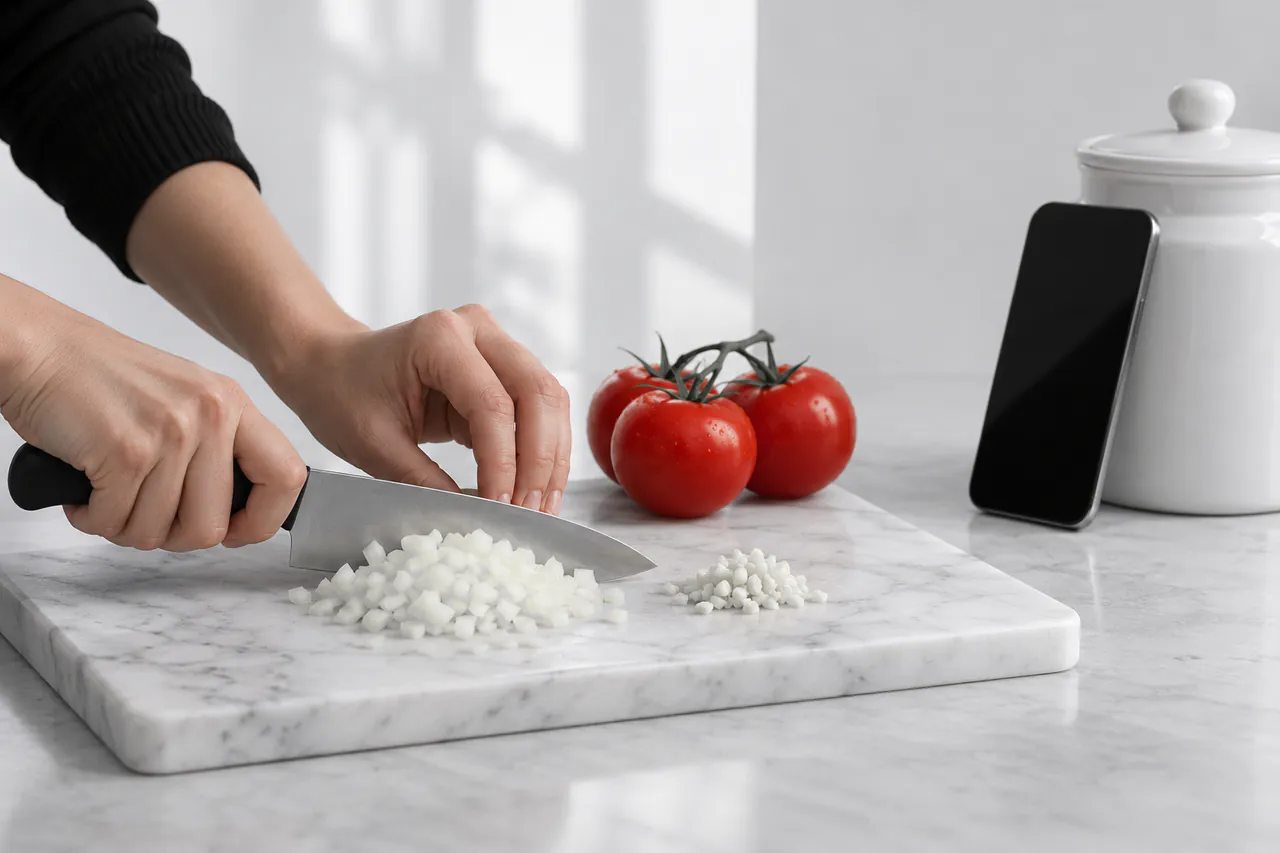
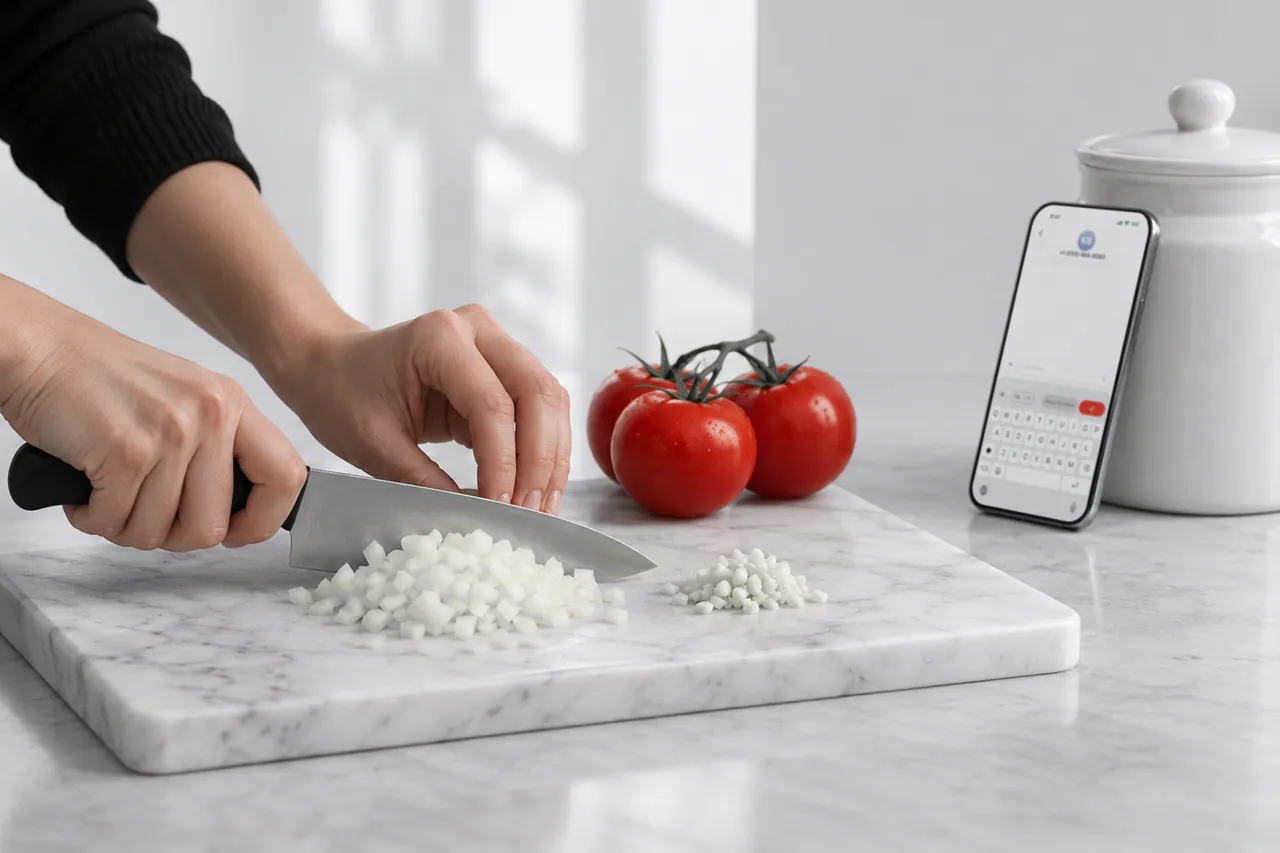
Publish the website from d586194

Changed region(s): [[0.75, 0.2438, 0.9062, 0.6096]]

diff --git a/index.html b/index.html
@@ -118,7 +118,7 @@
 </section>
 
 <!-- People using it: a row of photographs, shown once they have been made (docs/site/image-prompts.md). -->
-<div class="life" aria-hidden="true"><img class="slot slot-life-walk" src="assets/gen/life-walk-640.webp?v=1a6906bd" srcset="assets/gen/life-walk-640.webp?v=1a6906bd 640w, assets/gen/life-walk-1280.webp?v=15435b41 1280w" sizes="(max-width: 760px) 82vw, 360px" width="1280" height="853" alt="" decoding="async" loading="lazy"><img class="slot slot-life-cook" src="assets/gen/life-cook-640.webp?v=4582ce3e" srcset="assets/gen/life-cook-640.webp?v=4582ce3e 640w, assets/gen/life-cook-1280.webp?v=feb9c55b 1280w" sizes="(max-width: 760px) 82vw, 360px" width="1280" height="853" alt="" decoding="async" loading="lazy"><img class="slot slot-life-desk" src="assets/gen/life-desk-640.webp?v=6e55c0c9" srcset="assets/gen/life-desk-640.webp?v=6e55c0c9 640w, assets/gen/life-desk-1280.webp?v=4f55520f 1280w" sizes="(max-width: 760px) 82vw, 360px" width="1280" height="853" alt="" decoding="async" loading="lazy"></div>
+<div class="life" aria-hidden="true"><img class="slot slot-life-walk" src="assets/gen/life-walk-640.webp?v=1a6906bd" srcset="assets/gen/life-walk-640.webp?v=1a6906bd 640w, assets/gen/life-walk-1280.webp?v=15435b41 1280w" sizes="(max-width: 760px) 82vw, 360px" width="1280" height="853" alt="" decoding="async" loading="lazy"><img class="slot slot-life-cook" src="assets/gen/life-cook-640.webp?v=b292b135" srcset="assets/gen/life-cook-640.webp?v=b292b135 640w, assets/gen/life-cook-1280.webp?v=ae259238 1280w" sizes="(max-width: 760px) 82vw, 360px" width="1280" height="853" alt="" decoding="async" loading="lazy"><img class="slot slot-life-desk" src="assets/gen/life-desk-640.webp?v=d67e0877" srcset="assets/gen/life-desk-640.webp?v=d67e0877 640w, assets/gen/life-desk-1280.webp?v=42a82dd8 1280w" sizes="(max-width: 760px) 82vw, 360px" width="1280" height="853" alt="" decoding="async" loading="lazy"></div>
 
 <!-- 5. The whole page in six cards. -->
 <section class="short" aria-labelledby="short-title" data-tone="light">
